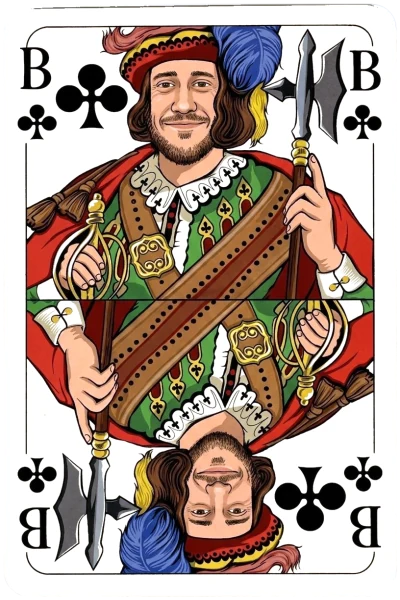
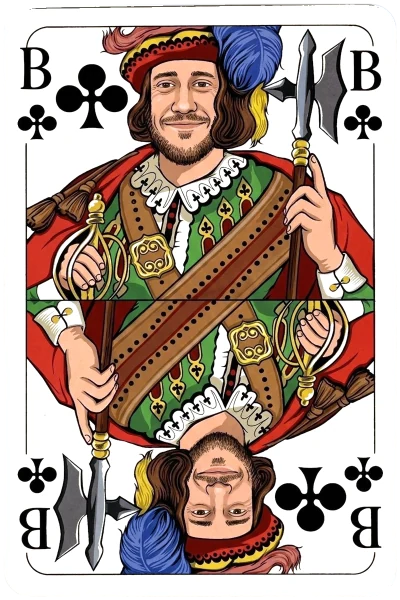
Doppelkopf: Kreuz-Karten entzerrt (gerade Kanten, einheitlicher Zuschnitt) (v367)
Claude-Session: https://claude.ai/code/session_01Bq3j1UmgmmQRjdUKFtX7an

diff --git a/sw.js b/sw.js
@@ -4,7 +4,7 @@
 // Nur dann wirft der Browser den alten Zwischenspeicher weg und alle Spieler
 // bekommen zuverlässig die neue Version. Das ist der einzige Handgriff, den man
 // nach dem Bearbeiten von Dateien nicht vergessen darf.
-const CACHE_NAME = "trollhouse-v366";
+const CACHE_NAME = "trollhouse-v367";
 
 const DATEIEN = [
   "./",
@@ -74,12 +74,12 @@ const DATEIEN = [
   "bilder/fussball-auktion/spieler-it-5.png?v=335",
   "bilder/fussball-auktion/spieler-de-1.png?v=335",
   "bilder/doppelkopf-dame.webp",
-  "bilder/doppelkopf/kreuz-9.webp?v=365",
-  "bilder/doppelkopf/kreuz-10.webp?v=365",
-  "bilder/doppelkopf/kreuz-bube.webp?v=365",
-  "bilder/doppelkopf/kreuz-dame.webp?v=365",
-  "bilder/doppelkopf/kreuz-koenig.webp?v=365",
-  "bilder/doppelkopf/kreuz-ass.webp?v=365",
+  "bilder/doppelkopf/kreuz-9.webp?v=367",
+  "bilder/doppelkopf/kreuz-10.webp?v=367",
+  "bilder/doppelkopf/kreuz-bube.webp?v=367",
+  "bilder/doppelkopf/kreuz-dame.webp?v=367",
+  "bilder/doppelkopf/kreuz-koenig.webp?v=367",
+  "bilder/doppelkopf/kreuz-ass.webp?v=367",
   "bilder/tetris-stein.webp",
   "bilder/knobeln-streichhoelzer.webp",
   "bilder/merks-dir-karten.webp",

diff --git a/spiele/doppelkopf/karten.js b/spiele/doppelkopf/karten.js
@@ -167,7 +167,7 @@ export function kartenSvg(id) {
   if (cache.has(id)) return cache.get(id);
   const bild = BILD_KARTEN[farbe + rang];
   if (bild) {
-    const html = `<img class="dk-karte-svg dk-karte-bild" src="bilder/doppelkopf/${bild}.webp?v=365" alt="${farbe}${rang}" draggable="false">`;
+    const html = `<img class="dk-karte-svg dk-karte-bild" src="bilder/doppelkopf/${bild}.webp?v=367" alt="${farbe}${rang}" draggable="false">`;
     cache.set(id, html);
     return html;
   }

diff --git a/app.js b/app.js
@@ -15,7 +15,7 @@ import {
 // Spiel-Fixes (spiele/<id>/spiel.js) verzoegert oder gar nicht mit.
 import { SPIELE, spielInfo } from "./spiele/register.js?v=335";
 
-export const APP_VERSION = "v366";
+export const APP_VERSION = "v367";
 const appVersion = document.getElementById("app-version");
 appVersion.textContent = "Version " + APP_VERSION;
 

diff --git a/spiele/register.js b/spiele/register.js
@@ -18,7 +18,7 @@
 // in der Olympiade trotz Fix in v201/v202 teils noch bestehen lassen.
 // WICHTIG: bei jedem Versionssprung hier UND in app.js (Import von
 // register.js) mit hochzaehlen.
-const SPIEL_VERSION = "366";
+const SPIEL_VERSION = "367";
 
 export const SPIELE = [
   {
